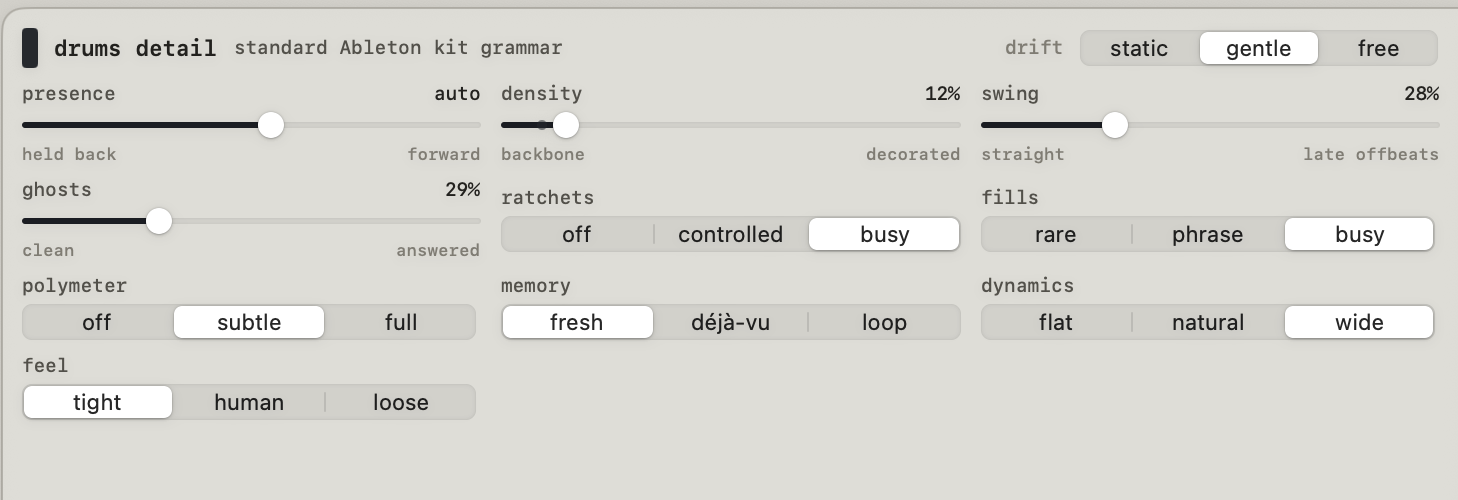
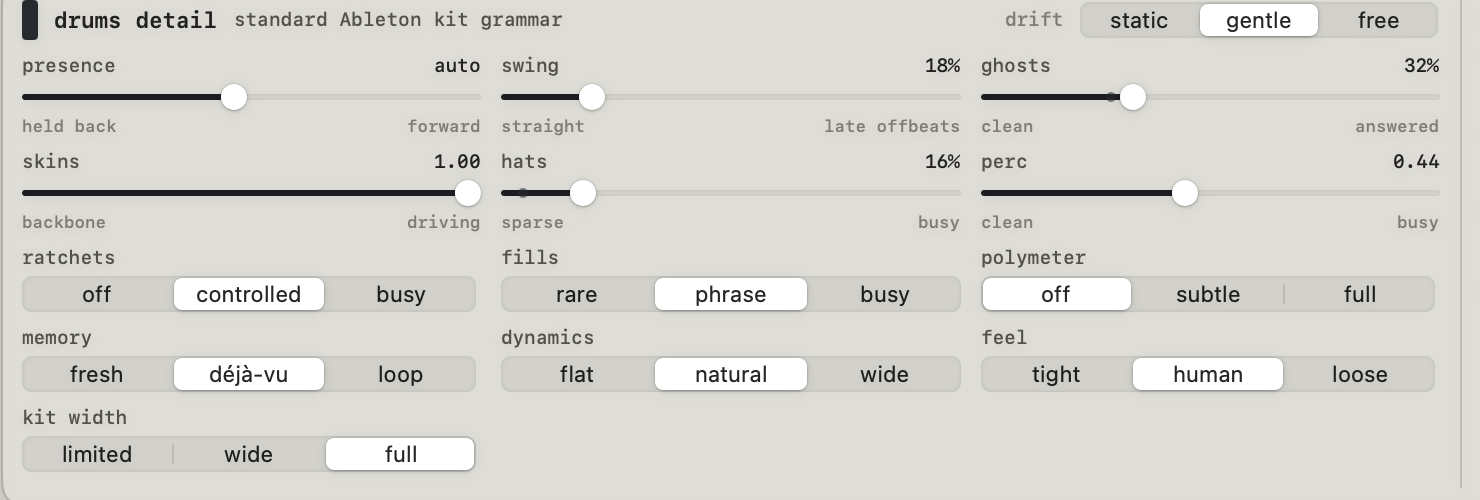
Site: refresh screenshots and copy for the navigable roll + wider drum kit

diff --git a/docs/index.html b/docs/index.html
@@ -262,13 +262,13 @@
       <span class="sec-tag">the surface</span>
       <div>
         <div class="sec-title">A control surface,<br>not a wall of knobs.</div>
-        <p class="sec-lede">Four stable tiers: transport and three performance macros, the orbit and moving form strip, six voice strips, and one fixed inspector. Continuous parameters are truthful sliders; musical decisions are switches. Press <b>f</b> to fill the screen with the orbit.</p>
+        <p class="sec-lede">Four stable tiers: transport and three performance macros, the orbit and moving form strip, six voice strips, and one fixed inspector. Continuous parameters are truthful sliders; musical decisions are switches. The piano roll scrolls and zooms, and shows the upcoming bars ahead of the playhead — turn a knob and watch the future rewrite itself in real time. Press <b>f</b> to fill the screen with the orbit.</p>
       </div>
     </div>
     <div class="shots">
       <figure class="shot">
         <img loading="lazy" src="img/loom-full.png" alt="The loom instrument: an orbit mandala, a moving 32-bar form strip, a piano roll, six voice strips and the selected-voice inspector.">
-        <figcaption><b>The full surface.</b> Orbit, 32-bar form strip, piano roll, six voice strips, and the drums inspector open below.</figcaption>
+        <figcaption><b>The full surface.</b> Orbit, 32-bar form strip, a scrollable piano roll with a live lookahead, six voice strips, and the drums inspector open below.</figcaption>
       </figure>
     </div>
   </section>
@@ -283,7 +283,7 @@
     </div>
     <div class="voices">
       <div class="voice" style="--vc:var(--drone)"><div class="vname"><span class="swatch"></span>drone<span class="port">loom&nbsp;drone</span></div><p>The sustained foundation: root, fifth and octave held for minutes, re-attacked once per harmonic span.</p></div>
-      <div class="voice" style="--vc:var(--drums)"><div class="vname"><span class="swatch"></span>drums<span class="port">loom&nbsp;drums</span></div><p>A dependable kick-snare-hat pocket on a General MIDI kit, with authored fills and phrase-scale fractures at higher grit.</p></div>
+      <div class="voice" style="--vc:var(--drums)"><div class="vname"><span class="swatch"></span>drums<span class="port">loom&nbsp;drums</span></div><p>A dependable kick-snare-hat pocket that widens across the full 16-pad Ableton kit — shaker, ride, crash and top-row one-shots — with authored fills and phrase-scale fractures at higher grit.</p></div>
       <div class="voice" style="--vc:var(--bass)"><div class="vname"><span class="swatch"></span>bass<span class="port">loom&nbsp;bass</span></div><p>Monophonic root-and-movement. States the harmony, then gets out of the way; walks approach tones into each change.</p></div>
       <div class="voice" style="--vc:var(--chords)"><div class="vname"><span class="swatch"></span>chords<span class="port">loom&nbsp;chords</span></div><p>A voice-led harmonic bed of swells and tied pad attacks, common tones held through the changes.</p></div>
       <div class="voice" style="--vc:var(--pulse)"><div class="vname"><span class="swatch"></span>pulse<span class="port">loom&nbsp;pulse</span></div><p>Chord-locked rhythmic movement — one held current-chord tone that supplies motion without becoming a second melody.</p></div>
@@ -301,7 +301,7 @@
     </div>
     <div class="panes">
       <figure class="pane" style="--vc:var(--drone)"><div class="plabel"><span class="swatch"></span>drone<span class="pdesc">register · swell · fifth · octave</span></div><img loading="lazy" src="img/pane-drone.png" alt="drone inspector: register, swell, fifth and octave toggles"></figure>
-      <figure class="pane" style="--vc:var(--drums)"><div class="plabel"><span class="swatch"></span>drums<span class="pdesc">presence · density · swing · ghosts · ratchets · fills · polymeter · dynamics · feel</span></div><img loading="lazy" src="img/pane-drums.png" alt="drums inspector"></figure>
+      <figure class="pane" style="--vc:var(--drums)"><div class="plabel"><span class="swatch"></span>drums<span class="pdesc">presence · swing · ghosts · skins · hats · perc · ratchets · fills · polymeter · dynamics · feel · kit width (16-pad Ableton range)</span></div><img loading="lazy" src="img/pane-drums.png" alt="drums inspector"></figure>
       <figure class="pane" style="--vc:var(--bass)"><div class="plabel"><span class="swatch"></span>bass<span class="pdesc">presence · density · pitch law · approach · accent · octave · memory · glide</span></div><img loading="lazy" src="img/pane-bass.png" alt="bass inspector"></figure>
       <figure class="pane" style="--vc:var(--chords)"><div class="plabel"><span class="swatch"></span>chords<span class="pdesc">presence · register · voicing · strum</span></div><img loading="lazy" src="img/pane-chords.png" alt="chords inspector"></figure>
       <figure class="pane" style="--vc:var(--pulse)"><div class="plabel"><span class="swatch"></span>pulse<span class="pdesc">presence · density · gate · division · octave · fracture · memory · dynamics · feel</span></div><img loading="lazy" src="img/pane-pulse.png" alt="pulse inspector"></figure>